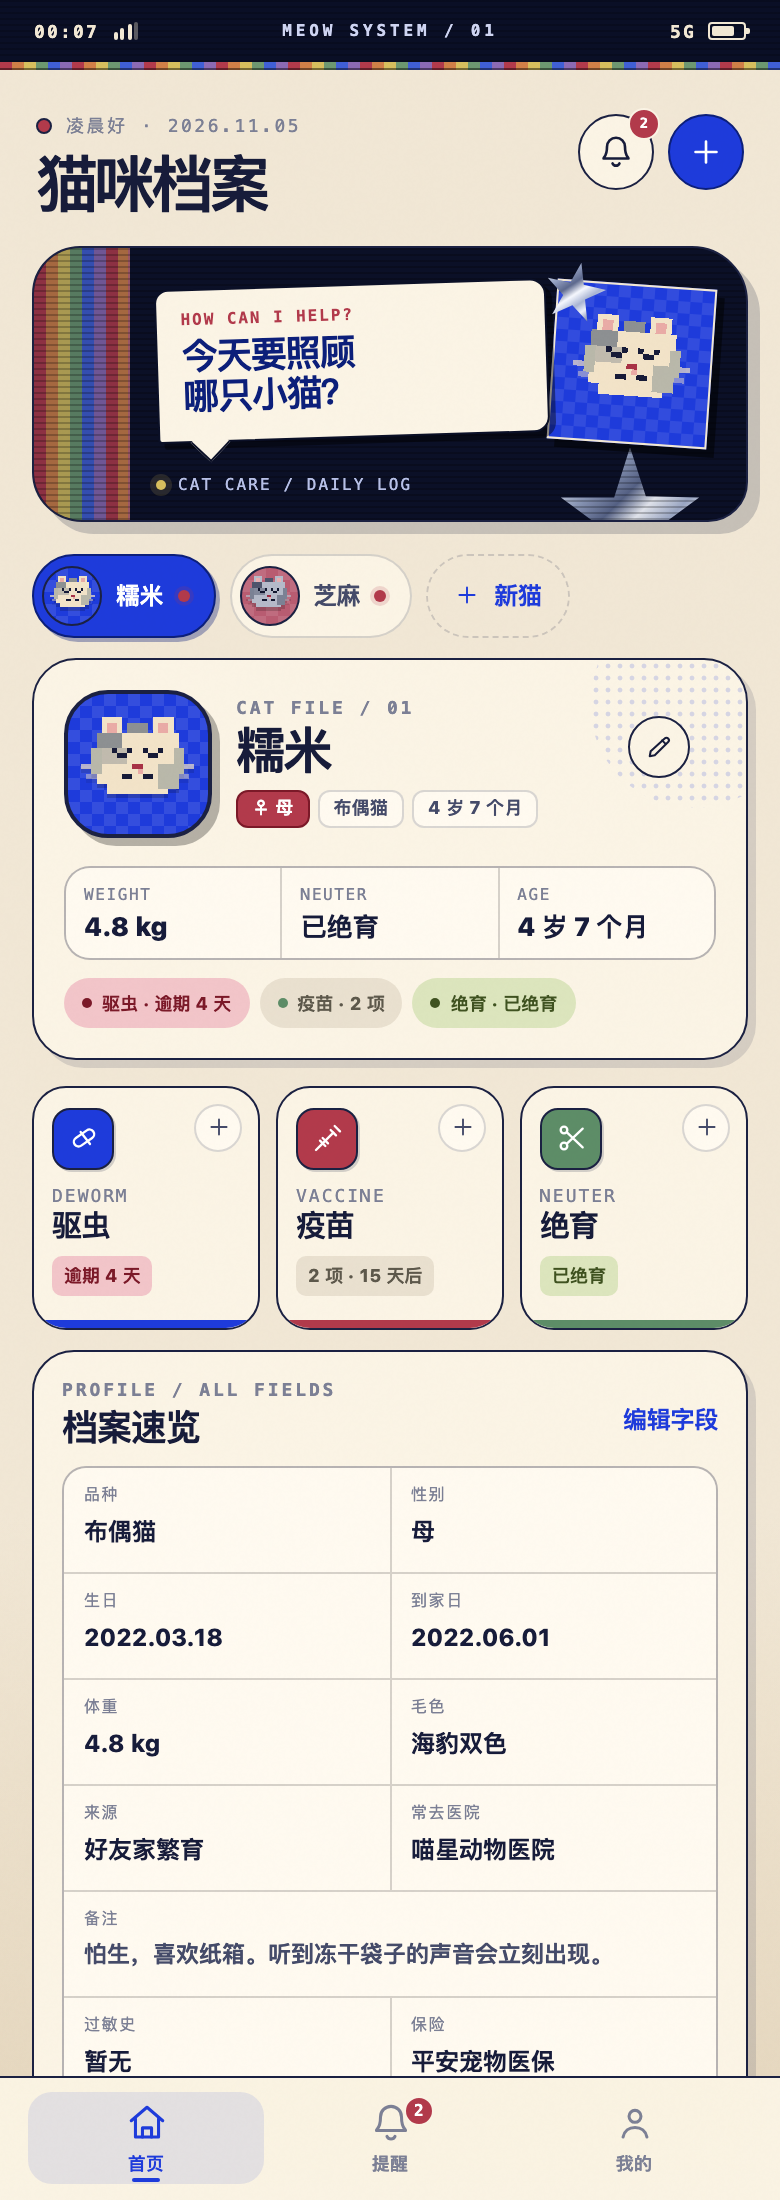
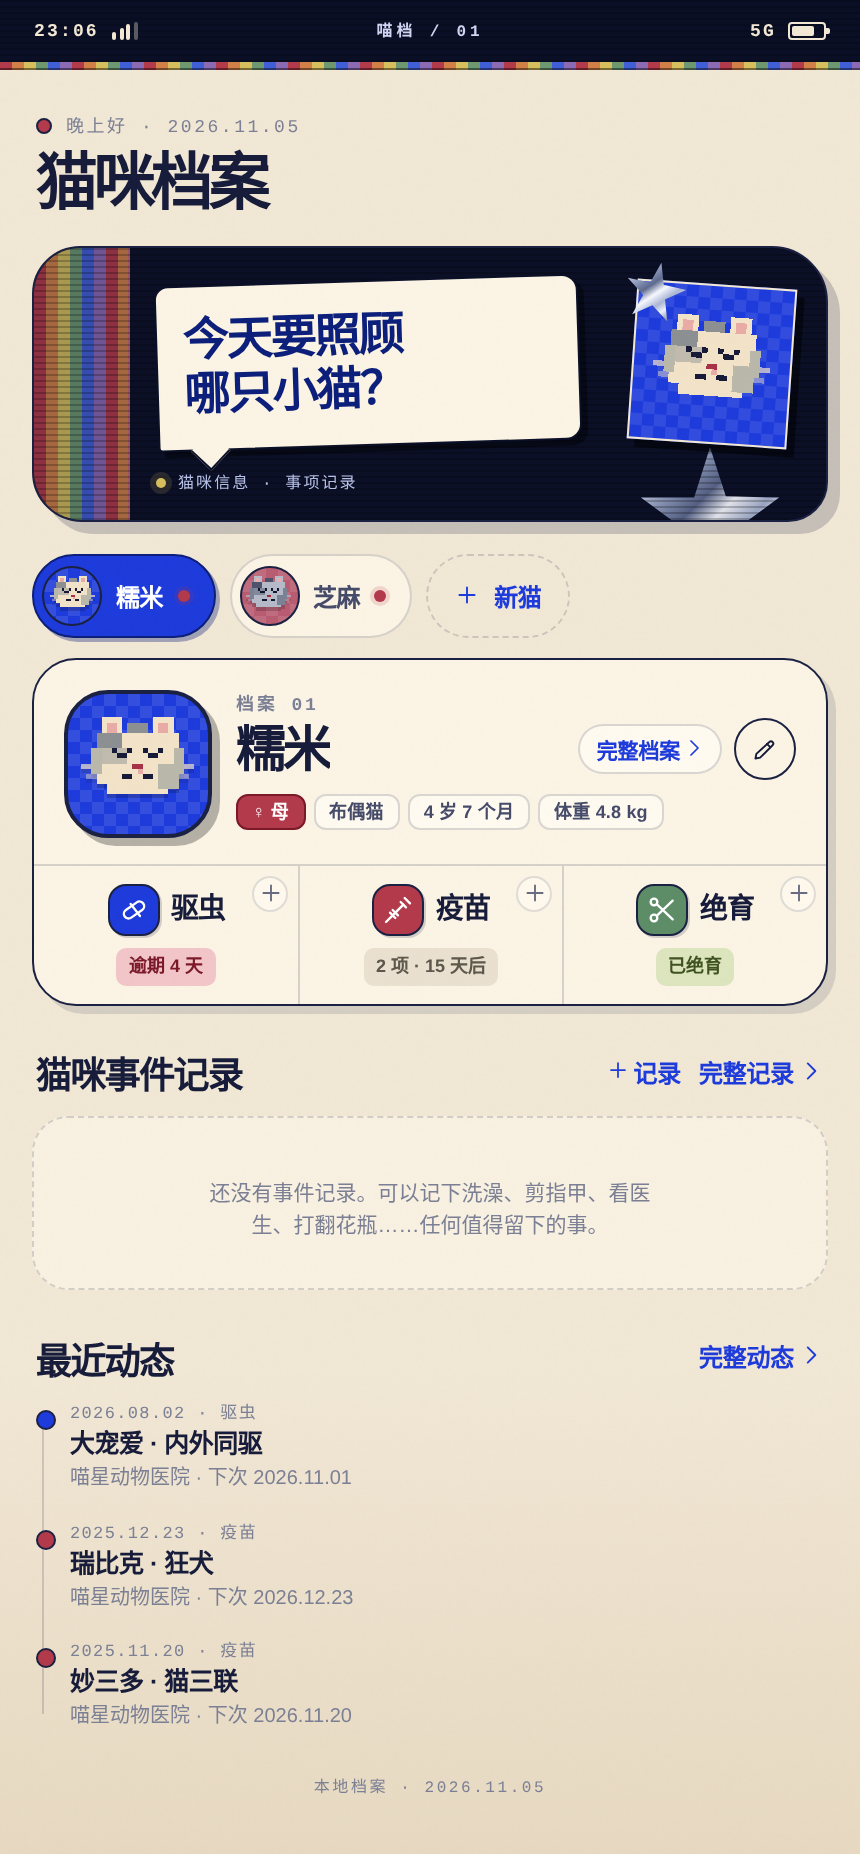
docs: 按当前实现重写 README（合并卡片、去档案速览、线上部署与 API），更新首页截图

diff --git a/README.md b/README.md
@@ -1,18 +1,32 @@
 # 喵档 · MEOW SYSTEM
 
-iOS 风格 + Y2K 拼贴的猫咪档案 App。App 本身仍是单文件 HTML；推荐用自带的本地服务启动，把数据写入电脑上的 `data.json`，电脑和手机共用同一份。
+iOS 风格 + Y2K 拼贴的猫咪档案 App。App 本身仍是单文件 HTML；推荐用自带的本地服务启动，把数据写入电脑上的 `data.json`，电脑和手机访问同一份数据。线上站点（`meow-system.site`）是同一套 App，但读写的是服务器上自己的 `data.json`，和本地文件互不同步。
 
 整个项目都保存在 `meow-system/` 文件夹里，不会和其他文件混在一起。
 
 ![首页](screens/home-light.png)
+
+## 现有页面
+
+底部三个标签页：
+
+| 标签 | 内容 |
+| --- | --- |
+| 首页 | 拼贴标语卡 → 猫咪切换（含「新猫」）→ 档案卡（档案卡与驱虫/疫苗/绝育合并在同一个外框内）→ 猫咪事件记录（最近 3 条）→ 最近动态（最近 3 条） |
+| 提醒 | 按「全部 / 驱虫 / 疫苗 / 绝育」筛选，按「逾期 / 今天 / 7 天内 / 之后 / 待安排」分组 |
+| 我的 | 系统面板（猫咪数、记录数、存储位置、备份方式）、外观切换、数据管理 |
+
+**档案卡**：头像、`档案 NN` 编号、姓名、「完整档案」入口和编辑按钮、标签行（性别、品种、年龄、体重）。卡片下半部分是驱虫 / 疫苗 / 绝育三格，图标、标题和状态标签在各自格子里水平居中，右上角是小号 `+` 快速录入，点整格进入档案页对应区块。
+
+**档案页**：顶部导航、猫咪信息卡、猫咪事件记录、驱虫记录、疫苗记录、绝育信息；记录支持左滑删除，编辑弹窗内也有删除入口；底部可删除这只猫。
 
 ## 推荐：用本地服务打开
 
 macOS 双击 `start-phone.command`；Linux 用 `./start-phone.sh`（见下面的 Linux 部分）。它会：
 
 - 启动本地服务 `server.py`
-- 自动打开 Mac 浏览器
-- 把数据写入 `meow-system/data.json`
+- 自动打开浏览器
+- 通过 `/api/data` 读写 `meow-system/data.json`
 - 在终端打印手机访问地址
 
 之后每次修改都会自动写入 `data.json`；重新打开时会先读取它，所以看到的是已经更新过的档案。
@@ -28,30 +42,31 @@ macOS 双击 `start-phone.command`；Linux 用 `./start-phone.sh`（见下面的
 
 也可以直接双击 `meow-system.html`，或在浏览器打开。这种模式不需要服务，但数据只存在当前浏览器的 `localStorage` 里，**不会写入 `data.json`**，换浏览器/换设备不会自动同步。
 
-适合临时预览；要长期保存到电脑文件，请用 `start-phone.command` 启动。
+适合临时预览；要长期保存到电脑文件，请用启动脚本。
 
 手动启动服务也可以：
 
 ```bash
-cd /Users/cheshire/Documents/deepseek-harness/default-workspace/meow-system
+cd /home/ubuntu/.openclaw/workspace/agent-43a280a3/meow-system
 python3 server.py 8080
 # 浏览器打开 http://127.0.0.1:8080/meow-system.html
 ```
 
+服务端行为：
+
+- `GET /api/health` — 健康检查，返回 `{"ok": true, "server": "meow-system"}`
+- `GET /api/data` — 读取 `data.json`，文件不存在时返回 `{"ok": true, "data": null}`
+- `POST /api/data` — 校验后原子写入（临时文件 + `os.replace`），写入前把旧文件备份为 `data.json.bak`；请求体上限 20MB
+- `/` 和空路径会 302 跳到 `/meow-system.html`；目录浏览已关闭，源码、日志、备份一律不对外
+
 ## 在手机上使用
 
-1. Mac 和 iPhone 连接同一个 Wi-Fi，或者让 Mac 连接 iPhone 的个人热点。
+1. 电脑和手机连接同一个 Wi-Fi，或者让电脑连接手机的个人热点。
 2. macOS 双击 `start-phone.command`；Linux 在终端运行 `./start-phone.sh`。保持窗口开着。
-3. 在 iPhone Safari 打开终端里打印的地址，例如：
+3. 在手机浏览器打开终端里打印的地址，例如：
 
    ```text
    http://172.20.10.4:8080/meow-system.html
-   ```
-
-   如果 IP 地址打不开，再试另一个 `.local` 地址：
-
-   ```text
-   http://CheshiredeMacBook-Air.local:8080/meow-system.html
    ```
 
 4. 想更像 App：Safari → 分享 → 添加到主屏幕。
@@ -85,7 +100,15 @@ NO_OPEN=1 ./start-phone.sh     # 无桌面环境 / 不自动打开浏览器
 python3 server.py 8080         # 不通过脚本，直接启动
 ```
 
-在无桌面的 Linux 服务器上建议用 `NO_OPEN=1`。手机和 Linux 需要处于同一 Wi-Fi / 热点，并放行对应 TCP 端口：
+Server 端环境变量：
+
+```bash
+PORT=8080                      # 监听端口（命令行参数优先）
+MEOW_HOST=0.0.0.0              # 监听地址，默认 0.0.0.0
+MEOW_DATA=/path/to/data.json   # 数据文件位置，默认当前目录
+```
+
+在无桌面的 Linux 服务器上建议用 `NO_OPEN=1`。手机和服务器需要处于同一网络，并放行对应 TCP 端口：
 
 ```bash
 # Ubuntu / Debian
@@ -98,45 +121,63 @@ sudo firewall-cmd --reload
 
 如果从 Mac 迁移到 Linux，请把**整个 `meow-system/` 文件夹**一起复制，尤其是 `data.json`。这样 Linux 启动后会直接读取原有档案。
 
+## 线上部署（本机现网形态）
+
+当前这台机器上，App 以 systemd 常驻 + nginx 反代的形式运行：
+
+- 访问地址：<https://meow-system.site/>（根路径 302 到 `/meow-system.html`，证书由 Certbot 续期）
+- `meow-system.service`：`python3 server.py 9090`，`MEOW_HOST=127.0.0.1`，日志追加到 `logs/meow.log`，`Restart=always`
+- `nginx`：`meow-system`（443 HTTPS）+ `meow-system-altport`（8080 备用 HTTP），只放行 `/meow-system.html`、`/api/health`、`/api/data` 和根路径跳转，其余返回 404
+- `logrotate`：`logs/*.log` 按天轮转，保留 14 份，10M 触发
+
+模板都放在 `.deploy/` 里，修改后需要同步到 `/etc/nginx/sites-available/` 与 `/etc/systemd/system/` 并 reload。注意：服务端只托管单文件 App，源码目录本身不对外暴露。
+
 ## 数据文件
 
-- `data.json` — 当前档案数据，自动生成；明文 JSON，注意隐私
+- `data.json` — 当前档案数据，自动生成；明文 JSON，注意隐私（已在 `.gitignore` 中）
 - `data.json.bak` — 上一次保存的自动备份
-- 也可以在「我的 → 导出 JSON 备份」手动下载一份
+- 也可以在「我的 → 导出 JSON 备份」手动下载一份，或用「导入 JSON 备份」覆盖导入
+- 「我的」里还有「恢复示例数据」和「清空全部数据」两个入口，都有二次确认
 
 迁移或备份时，复制 `data.json`，或使用 App 内的导出/导入即可。不要同时运行两个会写同一个 `data.json` 的服务。
 
 ## 已实现
 
-- 多猫档案，首页横向切换
-- 首页「档案速览」展示所有非空字段，包括自定义字段
-- 基础字段自由添加 / 删除 / 重命名
-- 新增猫咪的默认字段不含芯片号；已有非空芯片内容会保留
-- 驱虫、疫苗记录，按种类分别计算下次日期
-- 绝育状态、手术日期、医院、费用、术前检查、备注
+- 多猫档案，首页横向切换，`+ 新猫` 添加
+- 档案卡与驱虫/疫苗/绝育合并为一张卡片，内部用分隔线分区，三格内容居中
+- 基础字段自由添加 / 删除 / 重命名，支持自定义字段
+- 新增猫咪的默认字段为品种、性别、生日、到家日、体重、毛色、来源、常去医院、备注；不含芯片号，已有非空芯片内容会保留
+- 驱虫、疫苗记录，按种类分别计算下次日期（逾期 / 今天 / 7 天内 / 之后）
+- 绝育状态、手术日期、医院、费用、术前检查、备注；「计划中」显示为待安排
+- 猫咪事件记录（时间、标题、经过），首页最近 3 条，档案页全量
 - 一键完成并自动生成下一次记录，支持撤销
 - 左滑删除记录；编辑记录弹窗内也有删除入口
-- 应用内提醒：逾期、今天、7 天内、之后、待安排
-- 本地 `data.json` 持久化 + JSON 导出 / 导入
-- 浅色 / 深色 / 跟随系统
+- 应用内提醒：逾期、今天、7 天内、之后、待安排；底部「提醒」标签带待办角标
+- 本地 `data.json` 持久化（`/api/data`）+ 浏览器 `localStorage` 兜底 + JSON 导出 / 导入
+- 浅色 / 深色 / 跟随系统（设置里为「自动 / 浅色 / 深色」）
 - 预置「糯米」「芝麻」两只示例猫
 - 适配 320px、390px 手机宽度和桌面居中预览
 - 无登录、无云同步、无社区
 
 ## 目录
 
-- `meow-system.html` — 最终交付的单文件
+- `meow-system.html` — 最终交付的单文件（由 `build.mjs` 生成，不要手改）
 - `server.py` — 本地服务 + `data.json` 读写接口
 - `start-phone.command` — macOS 启动器
 - `start-phone.sh` — Linux / 通用终端启动器
-- `REQUIREMENTS.md` — 需求规格说明书
-- `data.json` — 自动生成的数据文件
+- `data.json` — 自动生成的数据文件（不入库）
 - `screens/` — 界面截图
 - `src/app.js`、`src/styles.css`、`src/shell.html` — 可维护源码
+- `src/assets/` — 拼贴背景等图片资源（SVG + datauri）
 - `build.mjs` — 把源码内联成单文件
+- `.deploy/` — systemd / nginx / logrotate 部署模板
+- `logs/` — 运行日志（不入库）
+- `DEPENDENCIES.md` — 依赖与部署环境说明
 
 修改源码后重新构建：
 
 ```bash
 node build.mjs
 ```
+
+改完 `src/` 里的文件后，务必重新构建 `meow-system.html`，否则线上和本地打开的还是旧版本。
